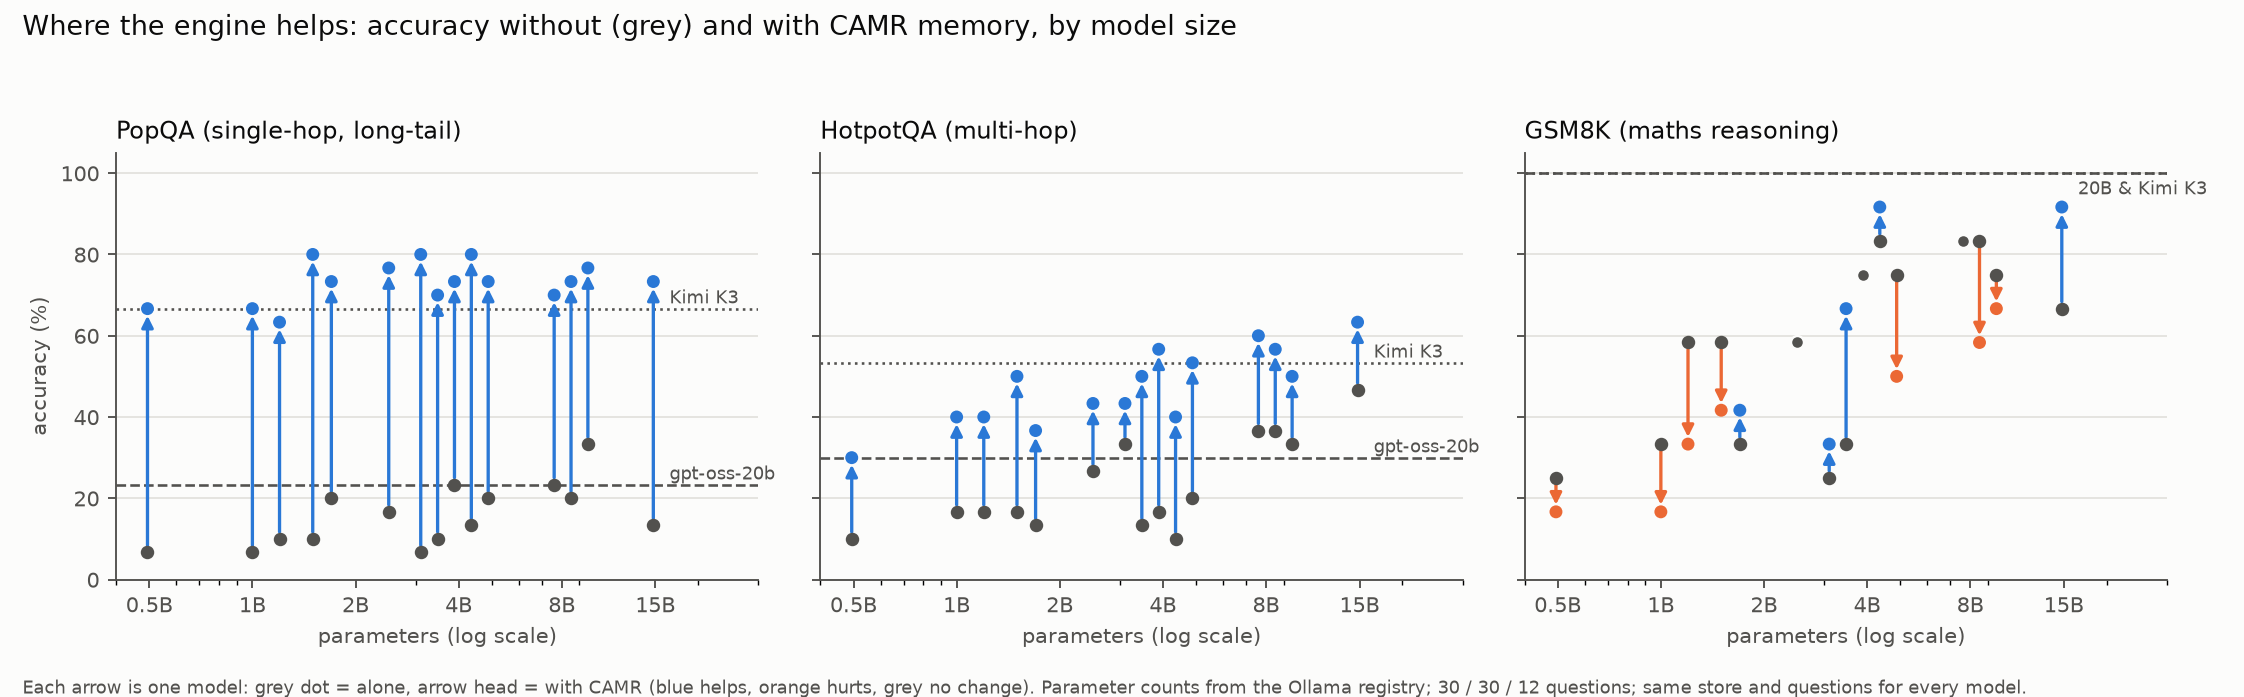
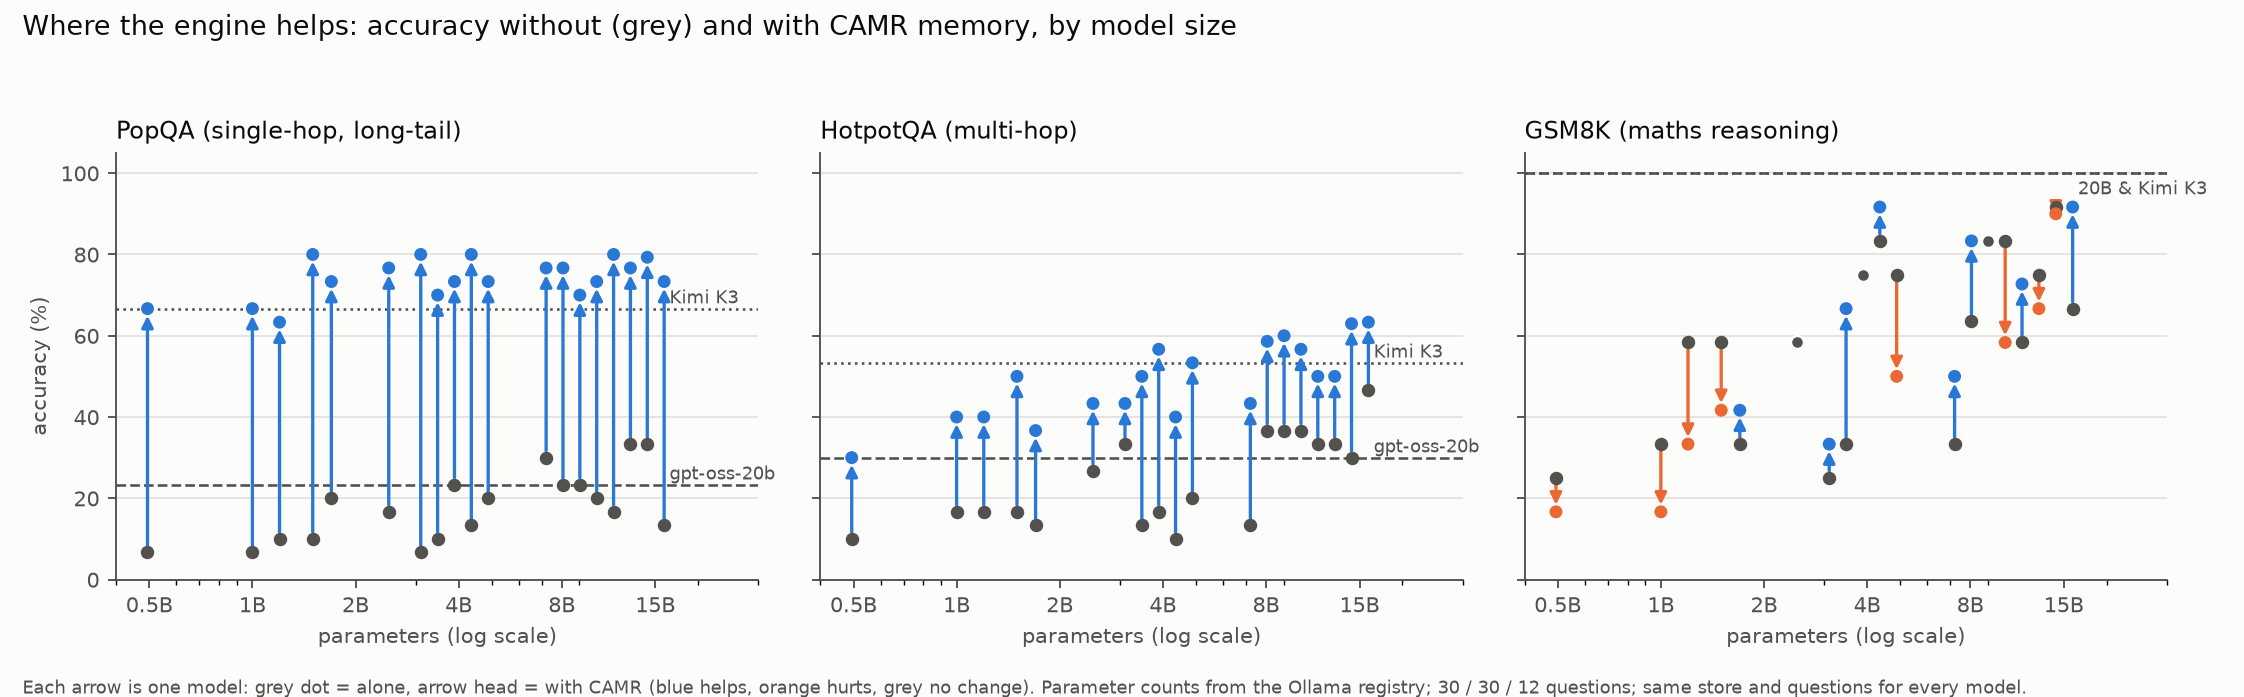
Findings: machine D merged (19 models) and 2WikiMultiHopQA retrieval
F10: mistral:7b, olmo2:7b, granite3.3:8b, gemma3:12b. 18 of 19 models reach
or beat Kimi K3 on long-tail facts with CAMR; 7 of 19 reach it on multi-hop.
Exemplar memory for maths helps 8, is neutral for 4, hurts 7.

F1b: on 2WikiMultiHopQA entity bridging lifts full-support recall from 35.8%
to 78.4% at the same 512-token budget with 7% fewer tokens.

diff --git a/scripts/screenshot_inspector.py b/scripts/screenshot_inspector.py
@@ -14,6 +14,9 @@ from pathlib import Path
 
 from playwright.sync_api import sync_playwright
 
+sys.path.insert(0, str(Path(__file__).resolve().parent.parent))
+from camr.ui_theme import STREAMLIT_FLAGS  # noqa: E402
+
 SCREENS = ["Run Dashboard", "Ablations", "Query Trace", "Memory Store"]
 
 
@@ -34,8 +37,8 @@ def main() -> None:
     port = free_port()
     app = Path(__file__).resolve().parent.parent / "camr" / "inspect" / "app.py"
     proc = subprocess.Popen(
-        [sys.executable, "-m", "streamlit", "run", str(app), "--server.headless", "true", "--server.port", str(port),
-         "--server.address", "127.0.0.1", "--browser.gatherUsageStats", "false", "--", "--run-dir", args.run_dir],
+        [sys.executable, "-m", "streamlit", "run", str(app), *STREAMLIT_FLAGS, "--server.headless", "true",
+         "--server.port", str(port), "--server.address", "127.0.0.1", "--", "--run-dir", args.run_dir],
         stdout=subprocess.PIPE, stderr=subprocess.STDOUT)
     try:
         with sync_playwright() as p:
@@ -48,7 +51,7 @@ def main() -> None:
                     break
                 except Exception:  # server still starting
                     time.sleep(1)
-            page.wait_for_selector("text=CAMR Inspector", timeout=60000)
+            page.wait_for_selector("text=Inspector · read-only", timeout=60000)
             page.wait_for_timeout(2000)
             for i, screen in enumerate(SCREENS, start=1):
                 page.get_by_text(screen, exact=True).first.click()

diff --git a/docs/FINDINGS.md b/docs/FINDINGS.md
@@ -50,6 +50,27 @@ Setup: 500 HotpotQA dev questions; a store of **24,475 notes** from **14,567 rea
 4. **Recall per token peaks at a 256-token budget** (2.52 per 1k tokens). That is objective v's answer at the retrieval level; saturation is near 1,024.
 5. Retrieval latency had a median of 40–46 ms (p95 52–68 ms) on 4 shared CPU cores. Isolated p95 spikes of 440–760 ms coincided with a 20B model loading on the same CPUs.
 
+
+### F1b. 2WikiMultiHopQA: entity bridging more than doubles full-support recall
+
+Source: `results/retrieval_eval/tables/retrieval_eval.json` (re-run with both benchmarks in **one** store of **38,054 notes** from 23,524 paragraphs, 170 MB; 500 questions each).
+
+| Read path (512 tokens unless noted) | 2Wiki: both gold paragraphs | Tokens | HotpotQA: both gold | Tokens |
+|---|---|---|---|---|
+| Similarity only (baseline) | 35.8% | 471 | 70.8% | 470 |
+| + recency & importance (Eq. 4.1) | 34.6% | 470 | 65.4% | 467 |
+| + gating | 33.4% | 408 | 64.6% | 384 |
+| + entity bridging (no gating) | 75.2% | 472 | 70.0% | 470 |
+| **Similarity + gating + bridging** | **78.4%** | **439** | 70.8% | 420 |
+| Baseline @ 1,024 | 41.4% | 980 | 79.8% | 978 |
+| Similarity + gating + bridging @ 1,024 | **84.0%** | 821 | **83.0%** | 728 |
+
+**Findings**
+1. **On 2WikiMultiHopQA, bridging lifts full-support recall from 35.8% to 78.4% (+42.6 points) at the same budget, with 7% fewer tokens.** 2Wiki questions are compositional ("Who is the father of the director of film X?"): the second paragraph shares almost no words with the question, so similarity search alone cannot find it, but the first paragraph *names* it, which is exactly the hop bridging takes. This is the strongest single result for the capability-adaptive read path.
+2. **On HotpotQA the gain is budget-dependent**: equal at 512 tokens (70.8% vs 70.8%, with 11% fewer tokens) and +3.2 points at 1,024 (83.0% vs 79.8%, with 26% fewer tokens). The earlier +0.6 at 512 (F1, smaller store) was within noise.
+3. **Eq. 4.1 (recency + importance) lowers recall on both benchmarks** (−1.2 and −5.4 points), confirming F1 on a second dataset.
+4. Retrieval latency over 38k notes: median 54–64 ms (p95 mostly 70–110 ms; isolated p95 spikes up to 0.7 s when a local app session shared the CPU).
+
 ---
 
 ## F2. Memory growth: same frozen model, more knowledge over time
@@ -229,9 +250,9 @@ Source: `results/pilot/camr.sqlite` (labels `main`, `kimi`, `kimi-k2.6`) and `ta
 
 ---
 
-## F10. Which model sizes suit the engine (model sweep, machines E, C and B; D pending)
+## F10. Which model sizes suit the engine (19 models, machines E, C, B and D)
 
-Source: `sweep_results/machine-{e,c,b}.sqlite`, merged into `results/pilot/camr.sqlite`; `results/pilot/tables/model_sweep.json`. Same store, same questions and same ceilings for every model. Parameter counts and quantisation are from the Ollama registry (`docs/model_registry_metadata.json`).
+Source: `sweep_results/machine-{e,c,b,d}.sqlite`, merged into `results/pilot/camr.sqlite`; `results/pilot/tables/model_sweep.json`. Same store, same questions and same ceilings for every model. Parameter counts and quantisation are from the Ollama registry (`docs/model_registry_metadata.json`).
 
 ![Accuracy without and with CAMR by model size](figures/fig_model_sweep.png)
 
@@ -252,20 +273,24 @@ Source: `sweep_results/machine-{e,c,b}.sqlite`, merged into `results/pilot/camr.
 | llama3.1:8b (8.0B, Q4_K_M) ᵇ | 20.0 → 73.3% | 36.7 → 56.7% | 83.3 → 58.3% | 5.7 → 5.4 |
 | gemma2:9b (9.2B, Q4_0) ᵇ | 33.3 → 76.7% | 33.3 → 50.0% | 75.0 → 66.7% | 6.7 → 6.5 |
 | qwen2.5:14b (14.8B, Q4_K_M) ᵇ | 13.3 → 73.3% | 46.7 → **63.3%** | 66.7 → **91.7%** | 3.2 → 3.0 |
+| mistral:7b (7.2B, Q4_K_M) ᵈ | 30.0 → 76.7% | 13.3 → 43.3% | 33.3 → 50.0% | 5.4 → 5.1 |
+| olmo2:7b (7.3B, Q4_K_M) ᵈ | 23.3 → 76.7% | 36.7 → 58.6%* | 63.6* → **83.3%** | 5.8 → 5.3 |
+| granite3.3:8b (8.2B, Q4_K_M) ᵈ | 16.7 → **80.0%** | 33.3 → 50.0% | 58.3 → 72.7%* | 5.0 → 4.6 |
+| gemma3:12b (12.2B, Q4_K_M) ᵈ | 33.3 → **79.3%*** | 30.0 → **63.0%*** | 91.7 → 90.0%* | 3.9 → 3.7 |
 | *Kimi K3 (cloud), no memory* | *66.7%* | *53.3%* | *100%* | — |
 
-ᶜ Machine C (Intel Xeon @ 2.80 GHz; the others @ 2.10 GHz): accuracies are comparable across machines, decode speeds are not. ᵇ Machine B (4 vCPU @ 2.10 GHz, 16 GB; see `sweep_results/machine-b.txt` for two runtime incidents and the clean re-runs).
+ᶜ Machine C (Intel Xeon @ 2.80 GHz; the others @ 2.10 GHz): accuracies are comparable across machines, decode speeds are not. ᵇ Machine B (4 vCPU @ 2.10 GHz, 16 GB; see `sweep_results/machine-b.txt` for two runtime incidents and the clean re-runs). ᵈ Machine D (same class). \* One to three queries of that run failed with a runtime error (HTTP 500 after the llama-server process exited) and were not retried; accuracy is over the answered questions (e.g. 23/29). Logged in `sweep_results/machine-d.txt`; D-07 now makes resume re-run such runs.
 
 **Findings**
 1. **From about 1.5B parameters, a small model with CAMR beats Kimi K3 on long-tail facts** (73–80% vs 66.7%). Measured against Kimi, gap closed is 1.14–1.24.
 2. **On multi-hop, about 3B is the threshold.** llama3.2:3b + CAMR reached 56.7% and gemma3:4b + CAMR 53.3%, against Kimi K3's 53.3%. Below 3B the gain is real (+20 to +33 pts) but the models do not reach Kimi.
 3. **Knowledge gains are large at every size** (+50 to +73 pts on PopQA), but the 0.5B model is the weakest *reader*. It gains least on multi-hop (+20) and is most hurt by extra notes (F8 budget sweep).
-4. **Worked-example (exemplar) memory for maths depends on the model family, not its size.** Across the 11 models of machines E and C it **helps 4**: falcon3:3b +33.3, phi4-mini +8.3, smollm2 +8.3, qwen2.5:3b +8.3. It is **neutral for 2** (llama3.2:3b, granite3.3:2b) and **hurts 5** (qwen2.5 0.5B/1.5B, llama3.2:1b, gemma3 1B/4B). With exemplars, phi4-mini (3.8B) reaches 91.7% on GSM8K. Reasoning routing must therefore be learned *per model*, which is exactly what the learned policy (F11) does.
-6. **Every one of the 11 models of machines E and C gains on knowledge tasks** (+50 to +73 pts on PopQA, +20 to +40 on HotpotQA). Ten of 11 reach or beat Kimi K3 (66.7%) on long-tail facts with CAMR; only llama3.2:1b (63.3%) falls short.
+4. **Worked-example (exemplar) memory for maths depends on the model family, not its size.** Across all 19 models it **helps 8, is neutral for 4 and hurts 7** (F10b). Across the 11 models of machines E and C it **helps 4**: falcon3:3b +33.3, phi4-mini +8.3, smollm2 +8.3, qwen2.5:3b +8.3. It is **neutral for 2** (llama3.2:3b, granite3.3:2b) and **hurts 5** (qwen2.5 0.5B/1.5B, llama3.2:1b, gemma3 1B/4B). With exemplars, phi4-mini (3.8B) reaches 91.7% on GSM8K. Reasoning routing must therefore be learned *per model*, which is exactly what the learned policy (F11) does.
+6. **Every one of the 19 models gains on knowledge tasks** (+43 to +73 pts on PopQA, +10 to +40 on HotpotQA). **18 of 19 reach or beat Kimi K3 (66.7%) on long-tail facts with CAMR**; only llama3.2:1b (63.3%) falls short. On multi-hop, **7 of 19 reach Kimi K3 (53.3%)**: llama3.2:3b, gemma3:4b and five of the eight 7–14B models.
 5. **Decode speed slows 3–17% with memory** (e.g. qwen2.5:3b 13.3 → 11.0 tokens/s). The weights are untouched; the slowdown comes from attending over a longer prompt. This corrects the "decode speed unaffected" reading of F2: there is a measurable, bounded per-token cost.
 
 
-### F10b. Large small models (7–14B, machine B): more reading, less speed
+### F10b. Larger small models (7–14B, machines B and D): more reading, less speed
 
 Mean seconds per answer **with CAMR** (same 4-core CPU class; Kimi K3 is 7.7 s on PopQA and 18.8 s on HotpotQA):
 
@@ -277,13 +302,17 @@ Mean seconds per answer **with CAMR** (same 4-core CPU class; Kimi K3 is 7.7 s o
 | qwen2.5:7b | 8.3 | 11.4 | 60.0% |
 | llama3.1:8b | 9.3 | 12.4 | 56.7% |
 | gemma2:9b | 16.5 | 21.7 | 50.0% |
+| olmo2:7b | 8.9 | 12.2 | 58.6% |
+| mistral:7b | 10.8 | 14.7 | 43.3% |
+| granite3.3:8b | 13.1 | 18.2 | 50.0% |
+| gemma3:12b | 16.2 | 22.4 | 63.0% |
 | qwen2.5:14b | 17.7 | 23.9 | **63.3%** |
 
 **Findings**
-1. **Parametric knowledge barely grows with size; memory does.** Even qwen2.5:14b alone knows only 13.3% of the long-tail facts (the best floor, gemma2:9b, 33.3%), but every 7–14B model reaches 70–77% with CAMR, above Kimi K3's 66.7%. On long-tail facts a 1.5B model with CAMR (80.0%) is as good as any 7–14B model with it.
-2. **Multi-hop improves with size.** qwen2.5:14b + CAMR scored 63.3%, equal to *Kimi K3 with the same notes* and 10 points above Kimi K3 closed-book; qwen2.5:7b reached 60.0%. This is the reading gap of F4 shrinking as the reader grows.
-3. **On a 4-core CPU, 7B+ models with memory are slower than the cloud** (8–24 s vs 7.7–18.8 s), and gemma2:9b was OOM-killed three times at ~13.4 GB until the runtime's prompt cache was capped. **The engine's sweet spot on this hardware is 1.5–4B**: faster than Kimi, at or above Kimi on facts, and at Kimi on multi-hop from ~3B.
-4. **Exemplar memory for maths still depends on the family**: qwen2.5:14b +25 points (66.7 → 91.7%), qwen2.5:7b ±0, gemma2:9b −8.3, llama3.1:8b −25.
+1. **Parametric knowledge barely grows with size; memory does.** Even qwen2.5:14b alone knows only 13.3% of the long-tail facts (the best floors, gemma2:9b and gemma3:12b, 33.3%), but every 7–14B model reaches 70–80% with CAMR, above Kimi K3's 66.7%. On long-tail facts a 1.5B model with CAMR (80.0%) is as good as any 7–14B model with it.
+2. **Multi-hop improves with size, but family matters as much.** qwen2.5:14b + CAMR scored 63.3% and gemma3:12b 63.0%, equal to *Kimi K3 with the same notes* and 10 points above Kimi K3 closed-book; qwen2.5:7b reached 60.0% and olmo2:7b 58.6%, while mistral:7b reached only 43.3% (below the 3B llama). This is the reading gap of F4 shrinking as the reader grows.
+3. **On a 4-core CPU, 7B+ models with memory are slower than the cloud** (8–24 s vs 7.7–18.8 s on PopQA/HotpotQA), and gemma2:9b was OOM-killed three times at ~13.4 GB until the runtime's prompt cache was capped. **The engine's sweet spot on this hardware is 1.5–4B**: faster than Kimi, at or above Kimi on facts, and at Kimi on multi-hop from ~3B.
+4. **Exemplar memory for maths still depends on the family**: qwen2.5:14b +25 points (66.7 → 91.7%), olmo2:7b +20, mistral:7b +16.7, granite3.3:8b +14, qwen2.5:7b ±0, gemma3:12b ≈ ±0 (91.7 → 90.0%), gemma2:9b −8.3, llama3.1:8b −25. Over all 19 models: helps 8, neutral 4, hurts 7.
 
 ### Defect D-07 (found on machine B, fixed)
 When the Ollama server stopped mid-sweep, every query failed with a logged error (IR-07 behaved as designed), but the run was still marked `completed`, so `resume` skipped it. Fix: resume now re-runs any run that has failed queries; the failed run is kept for the record and analysis uses the newer run (`tests/test_harness.py::test_runtime_down_logs_failures_and_continues`).
@@ -364,5 +393,4 @@ Regenerate: `python scripts/make_figures.py` and `python scripts/screenshot_insp
 
 ## Still running (this log is updated when they finish)
 
-- Model sweep D (separate machine): mistral:7b, olmo2:7b, granite3.3:8b, gemma3:12b.
-- Not run: 2WikiMultiHopQA retrieval evaluation (data and config are in place: `configs/retrieval_eval.yaml`).
+- HotpotQA at n = 200 (qwen2.5:0.5b, qwen2.5:1.5b, llama3.2:3b, Kimi K3 with and without memory): `configs/hotpot200.yaml`.
